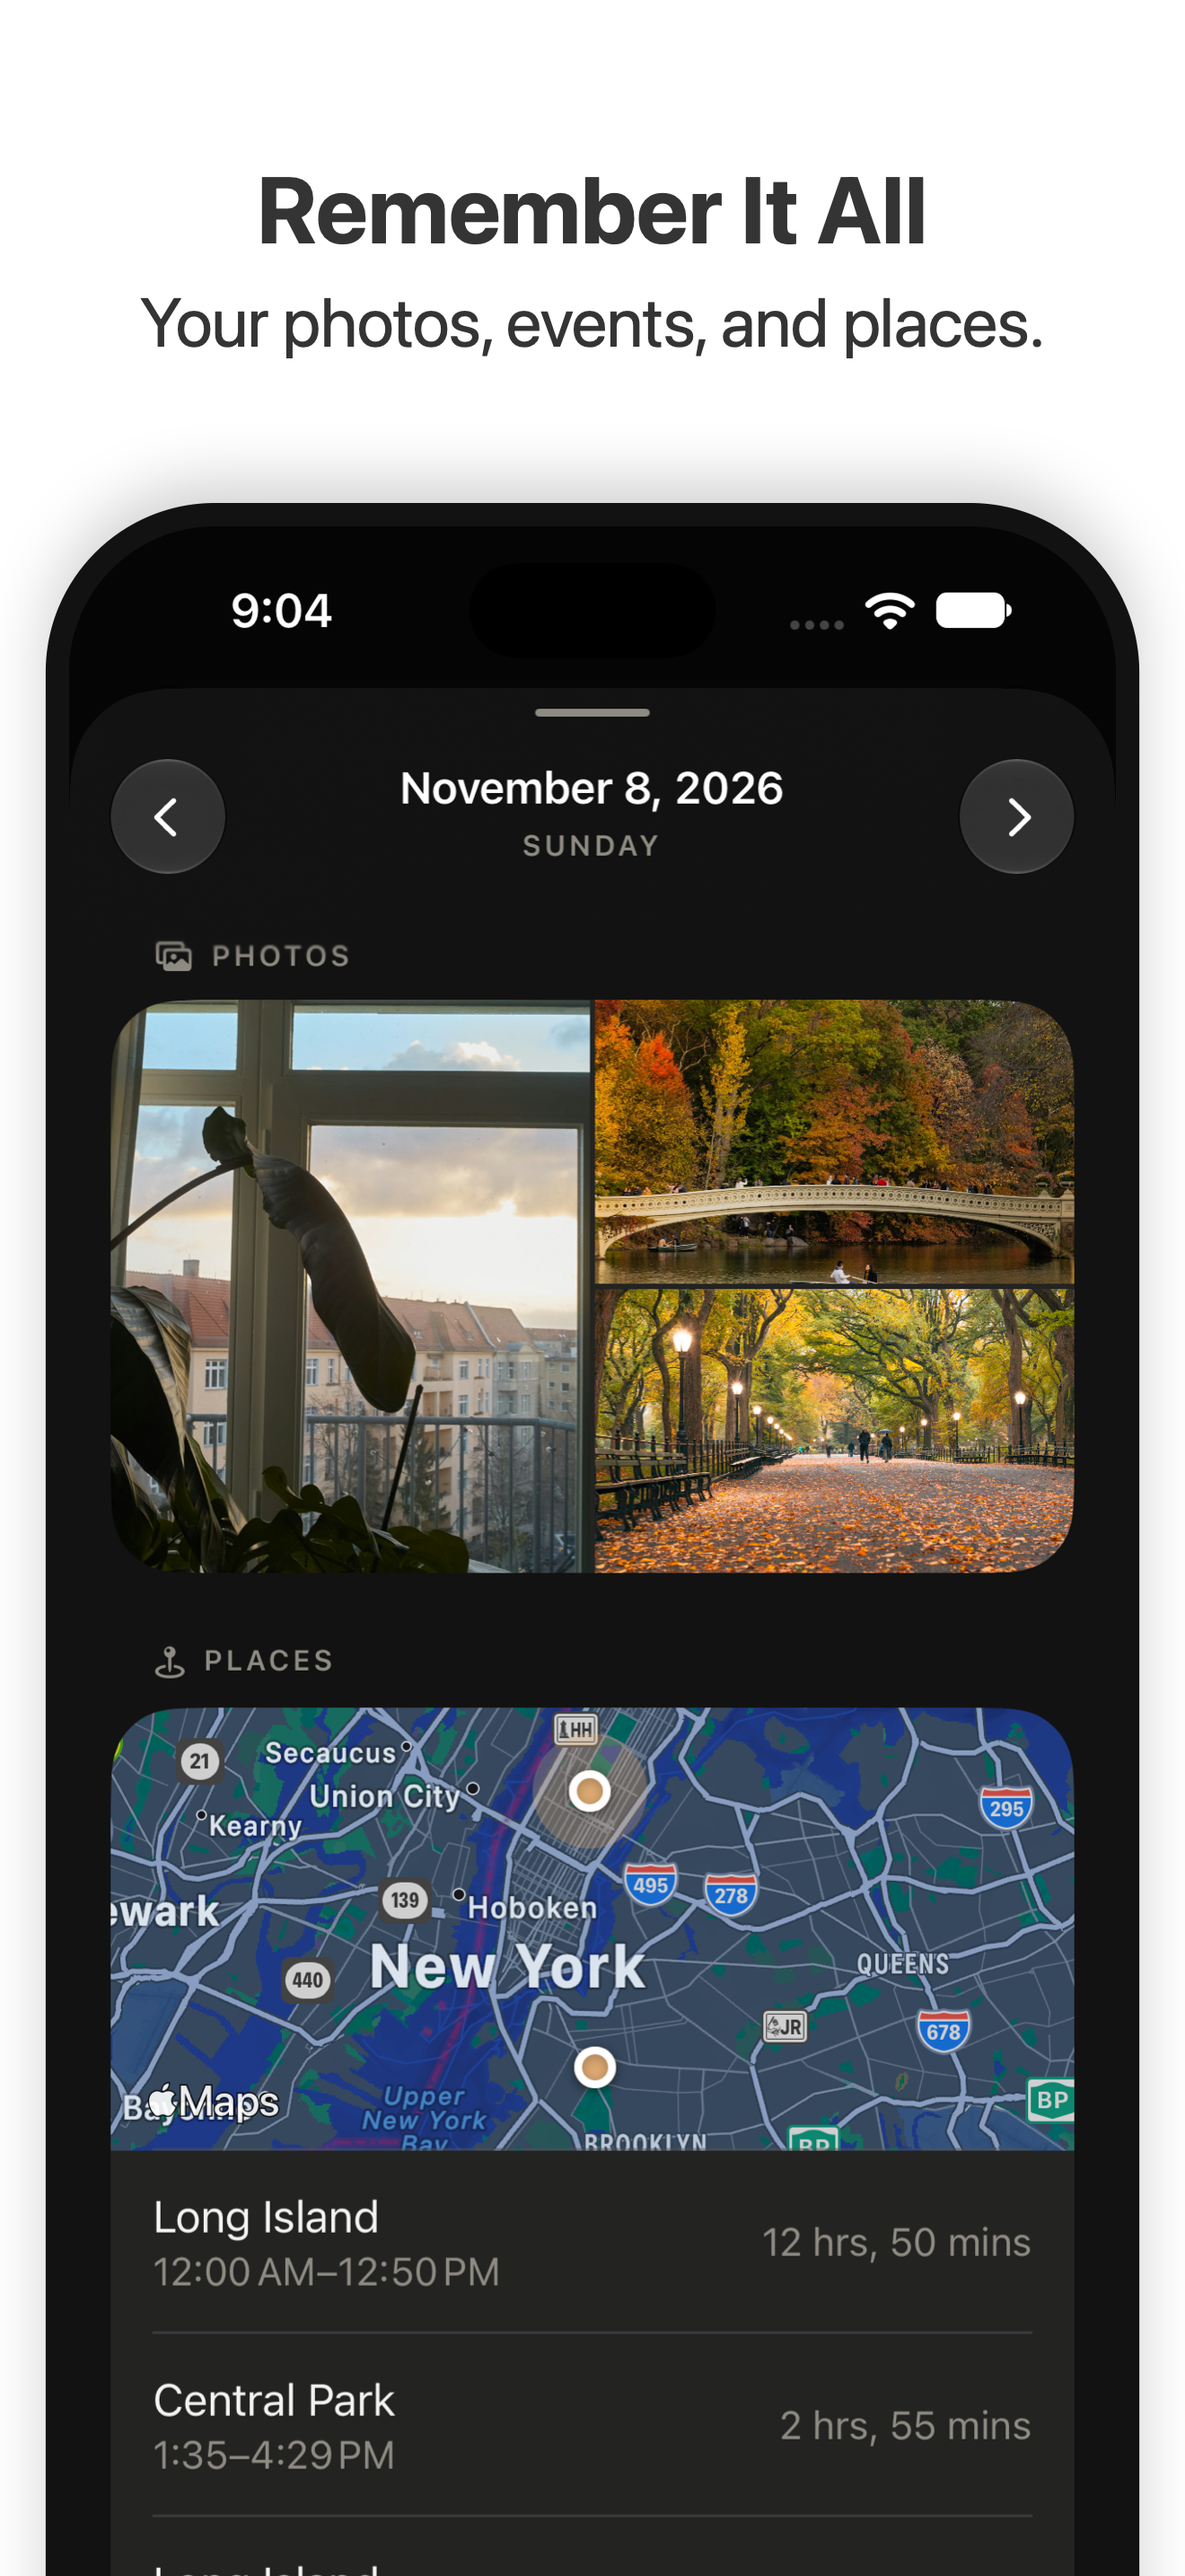
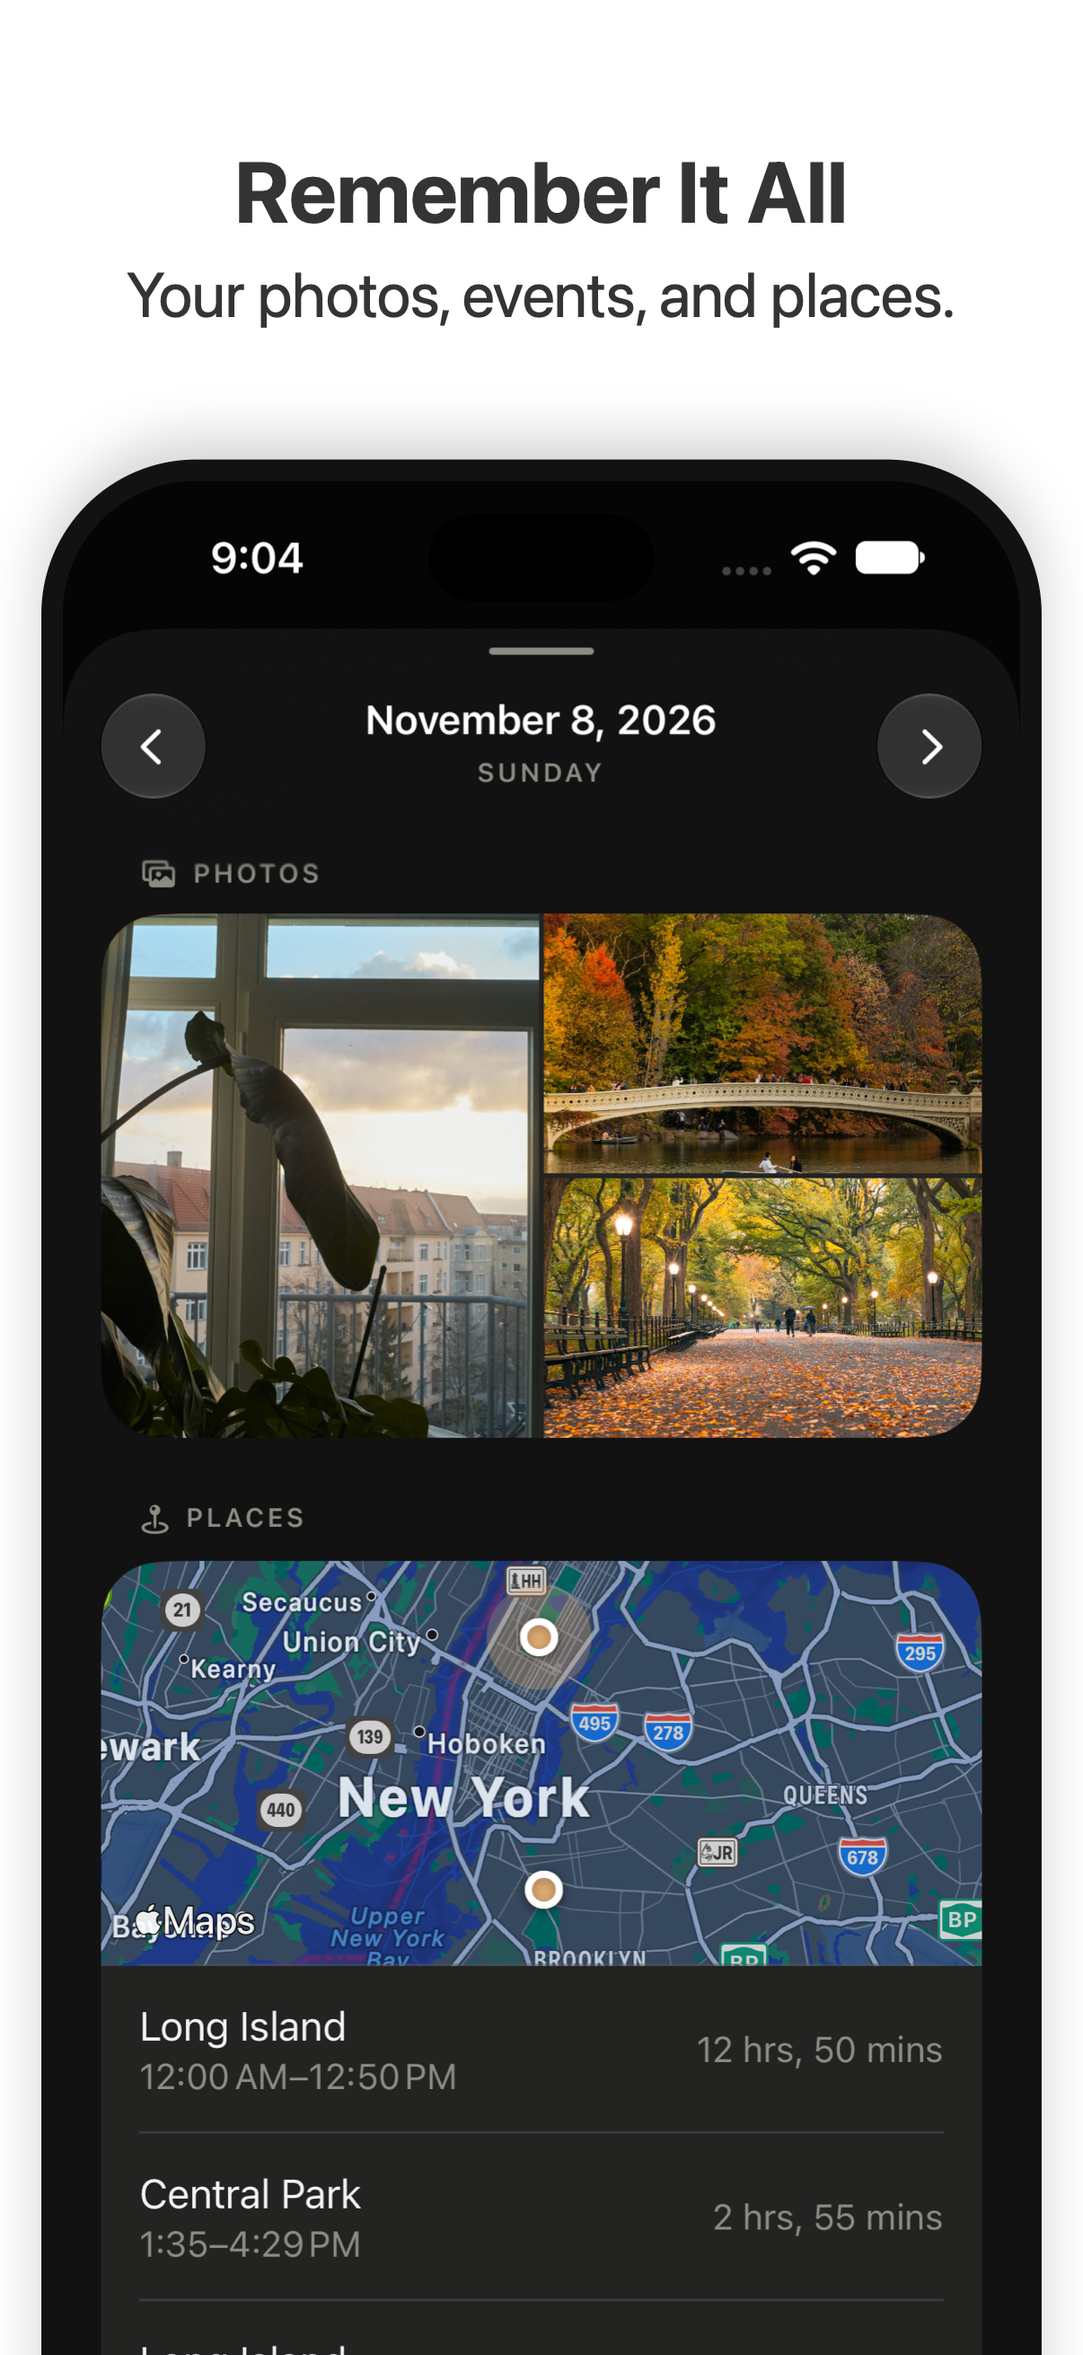
App Store screenshots: back to 1206×2622, the required size
App Store Connect's required iPhone size is now Dynamic Island, medium
display (1179×2556 or 1206×2622); 1320×2868 is rejected there.

diff --git a/CLAUDE.md b/CLAUDE.md
@@ -33,7 +33,7 @@ App Store: **Today: Daily Journal**. Home screen / Siri / permission prompts: **
 - `Journal.xcodeproj` uses a file-system-synchronized group: files added under `Journal/` join the target automatically. Don't edit `project.pbxproj` for that.
 - `App/` entry, tabs, lock, router, intents · `Models/` SwiftData (`Entry`, `Attachment`) · `Design/` theme tokens + shared components · `Views/<Feature>/` · `Services/` non-UI logic.
 - `Journal/SampleMedia/` holds the sample journal's photos (from Unsplash, 1600px). They're in Debug builds only: Release leaves them out with `EXCLUDED_SOURCE_FILE_NAMES`.
-- `website/` is the app's website (landing page and `privacy/`): static HTML, no build step, no third-party requests. `AppStore/Screenshots/` holds the App Store screenshots: one set, 1320×2868 (the required 6.9" size, which App Store Connect scales down for smaller iPhones). Never make a set at another size.
+- `website/` is the app's website (landing page and `privacy/`): static HTML, no build step, no third-party requests. `AppStore/Screenshots/` holds the App Store screenshots: one set, 1206×2622, the size App Store Connect requires (iPhone with Dynamic Island, medium display). Never make a set at another size.
 - The root `Info.plist` holds what the generated plist can't (`UIBackgroundModes`, URL types, alternative app names). A plist under `Journal/` would be copied in as a resource.
 - `JournalWidgets/` is the widget extension. Widgets read a JSON `WidgetSnapshot` (`Shared/`, compiled into both targets) from App Group `group.com.maxsun.journal`, written by `WidgetSync.update(in:)` (on launch, on every return to the foreground, and when an entry closes); they never read the store. The Today widget reads its photos from the library itself (`DayPhotos`, sharing the app's Photos access) and reloads every 15 minutes. Tapping a widget or the daily reminder opens the day sheet in the Calendar tab (`todayjournal://day[/yyyy-MM-dd]`, `AppRouter.openDay`). Style them with `WidgetStyle`, since the extension can't use `Theme`.
 
